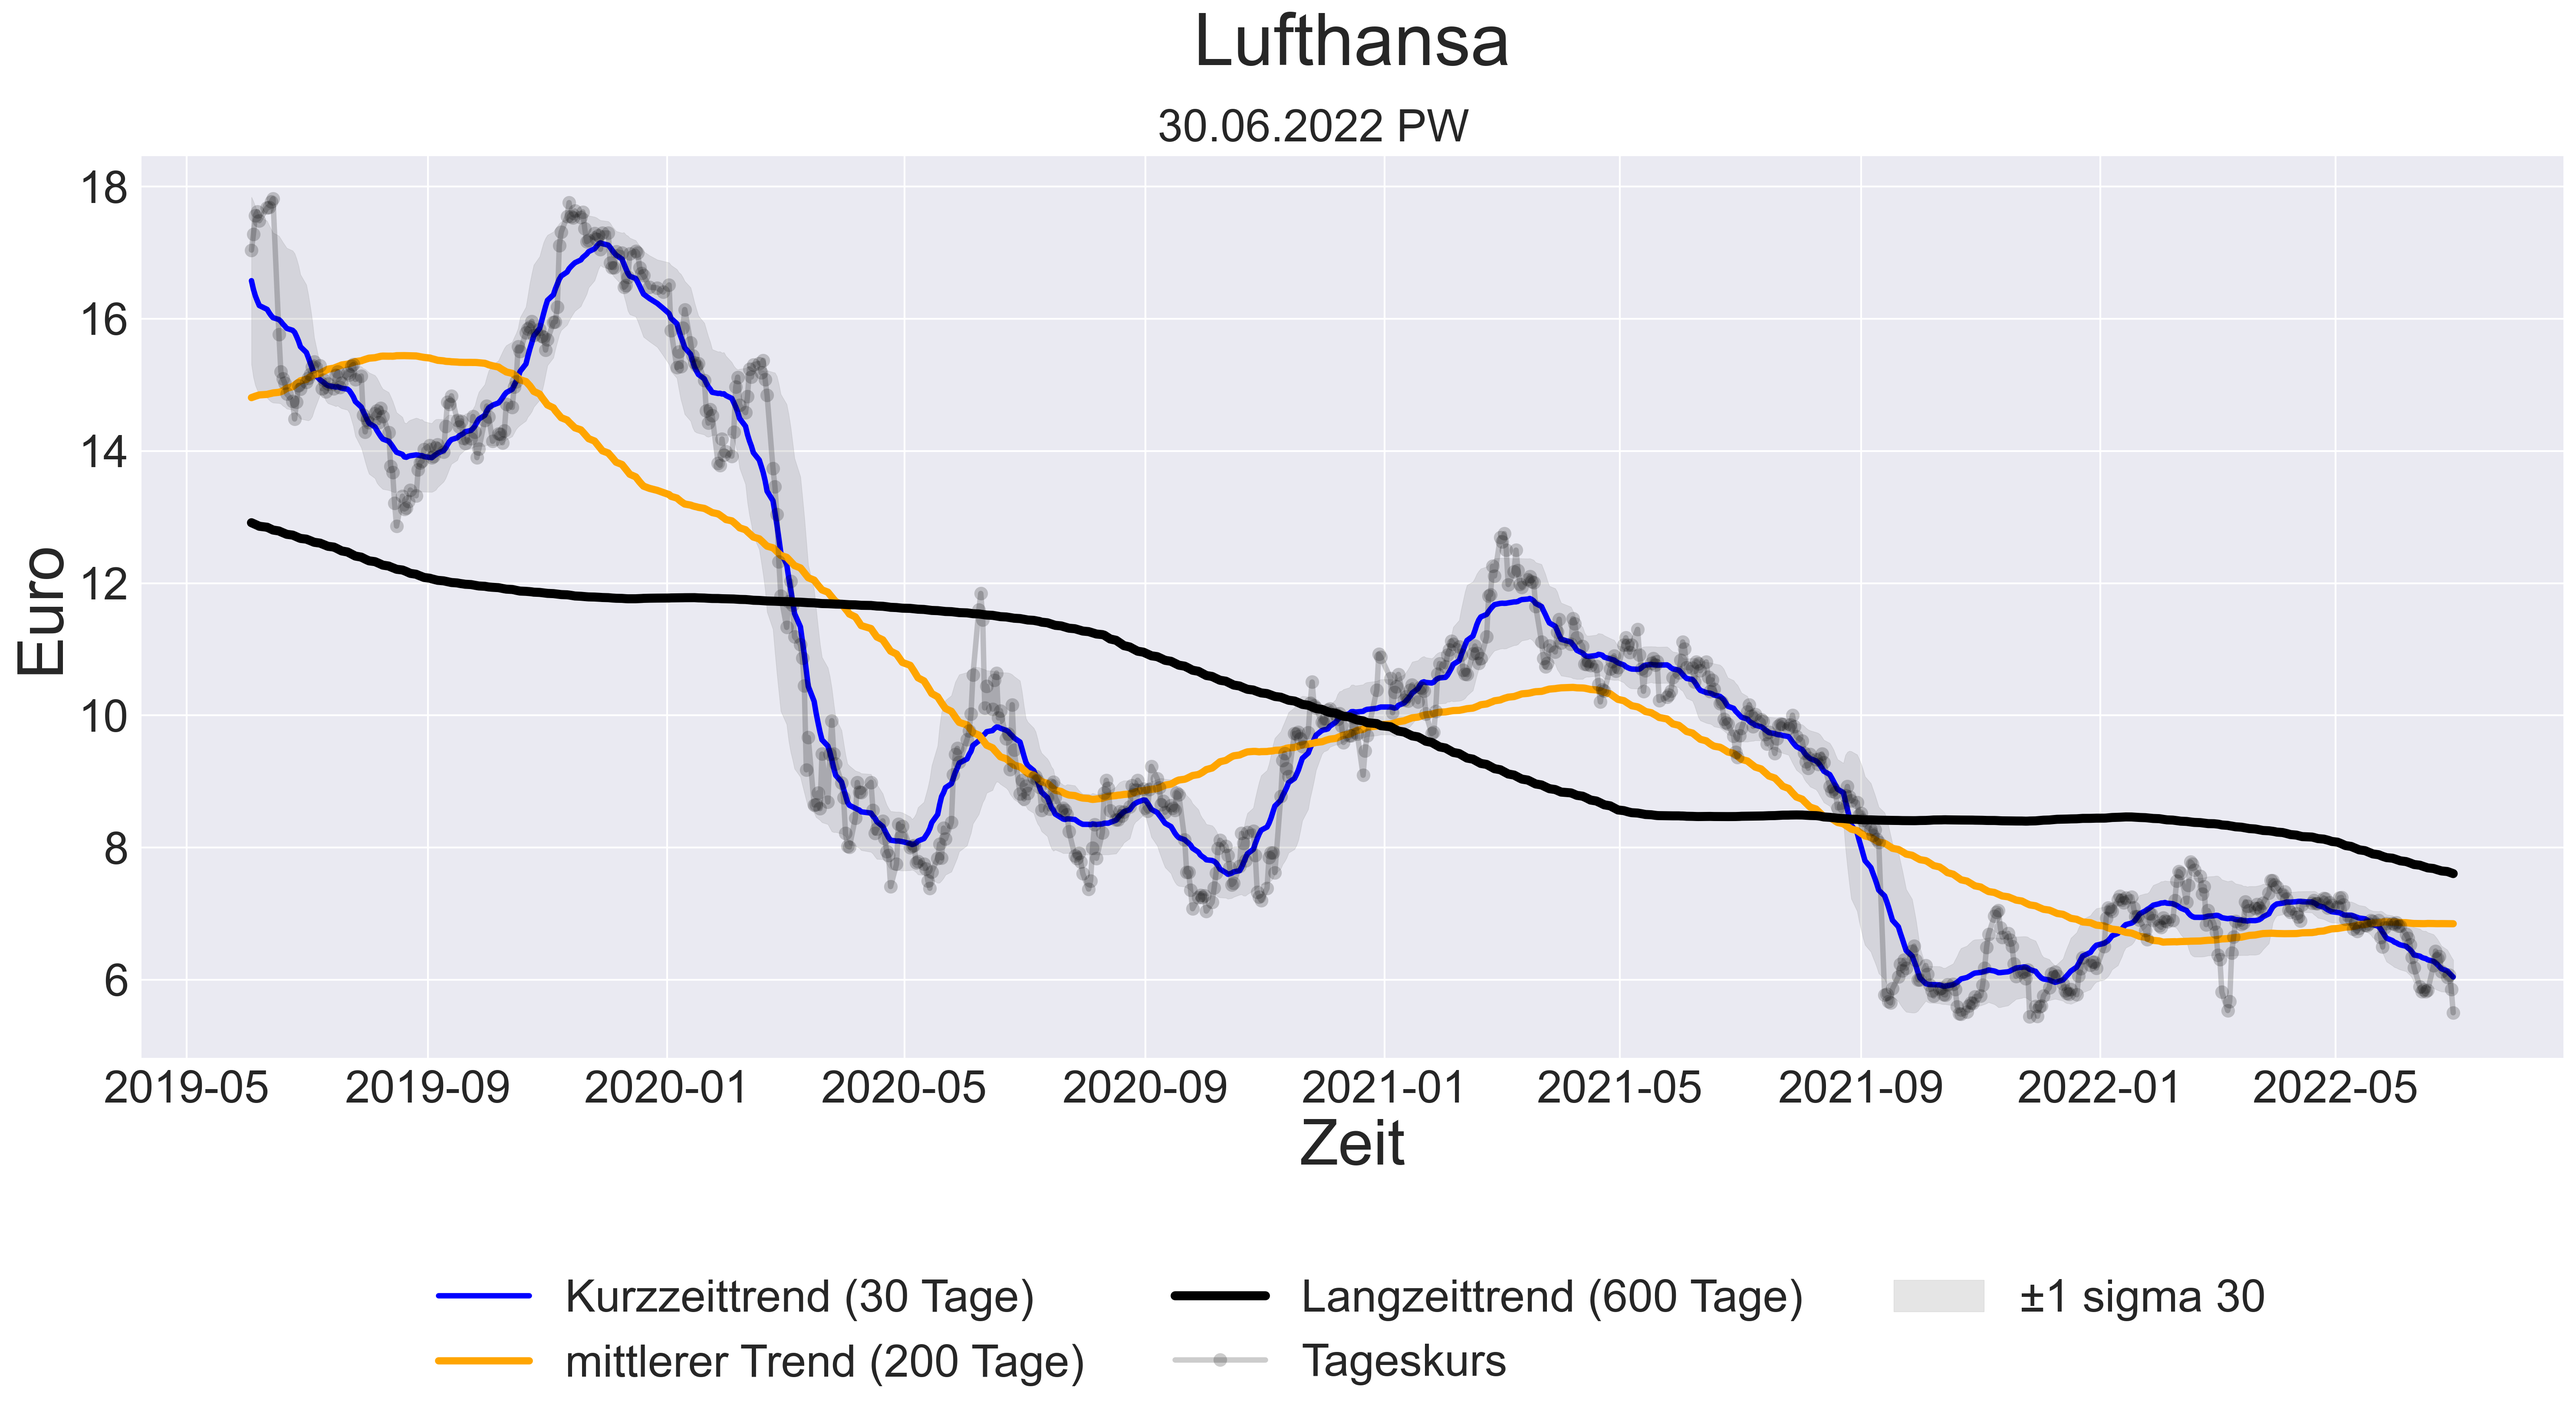
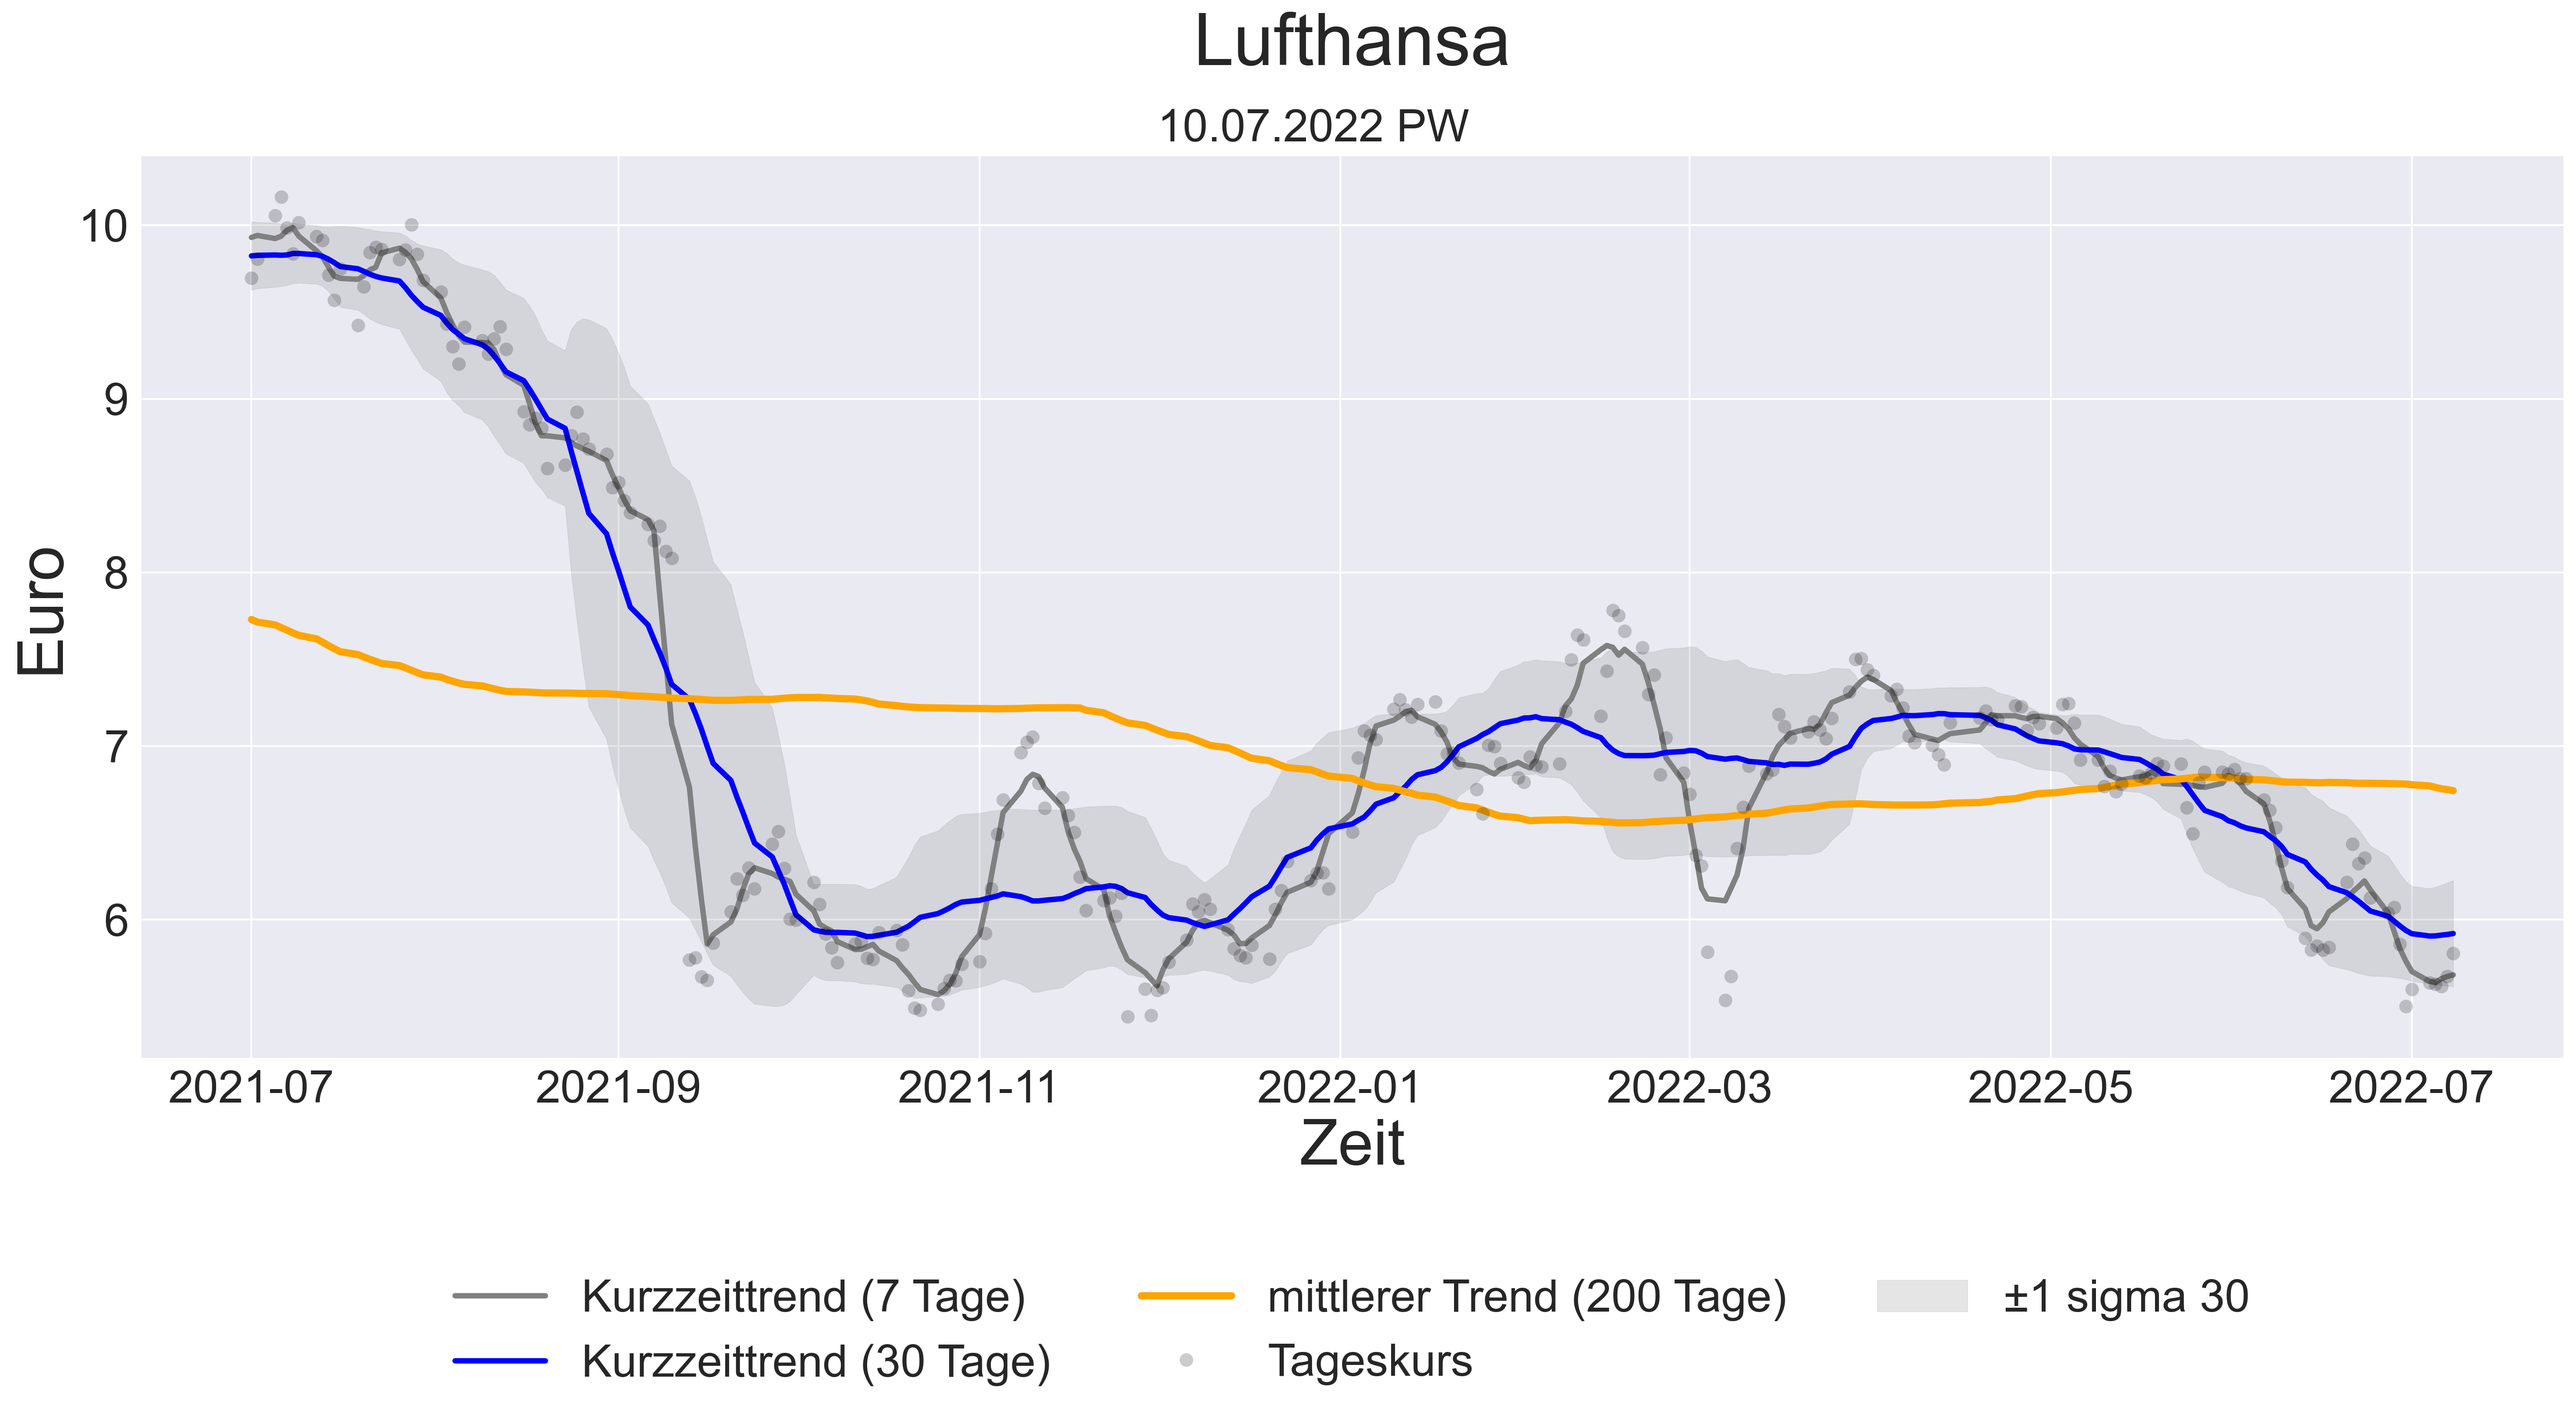
10.07.2022

diff --git a/diagramme.py b/diagramme.py
@@ -1,23 +1,31 @@
 from matplotlib import pyplot as plt
 
-def diagramme(df, rolling_window1, rolling_window2, rolling_window3, today, bezeichnung_aktie):
+def diagramme(df, rolling_window0, rolling_window1, rolling_window2, rolling_window3, today, bezeichnung_aktie, bool_WochenTrend, bool_KurzzeitTrend, bool_MittelTrend, bool_LangzeitTrend):
    
     # print(f'diagramme() bezeichnung_aktie= {bezeichnung_aktie}')
     plt.figure(figsize=(24,9))
     plt.style.use('seaborn')
     plt.grid(True)
 
+    # Wochentrend
+    if bool_WochenTrend == True:
+        plt.plot(df["Date"], df["Kurs_mean_0"], marker='', linestyle='-', alpha = 1,
+            color="grey", linewidth=3, label = f'Kurzzeittrend ({rolling_window0} Tage)', markersize=10)
+
     # Kurzzeittrend
-    plt.plot(df["Date"], df["Kurs_mean_1"], marker='', linestyle='-', alpha = 1,
-        color="blue", linewidth=3, label = f'Kurzzeittrend ({rolling_window1} Tage)', markersize=10)
+    if bool_KurzzeitTrend == True:
+        plt.plot(df["Date"], df["Kurs_mean_1"], marker='', linestyle='-', alpha = 1,
+            color="blue", linewidth=3, label = f'Kurzzeittrend ({rolling_window1} Tage)', markersize=10)
 
     # mittlerer Trend
-    plt.plot(df["Date"], df["Kurs_mean_2"], marker='', linestyle='-', alpha = 1,
-        color="orange", linewidth=4, label = f'mittlerer Trend ({rolling_window2} Tage)', markersize=10)
+    if bool_MittelTrend == True:
+        plt.plot(df["Date"], df["Kurs_mean_2"], marker='', linestyle='-', alpha = 1,
+            color="orange", linewidth=4, label = f'mittlerer Trend ({rolling_window2} Tage)', markersize=10)
     
     # Langzeit Trend
-    plt.plot(df["Date"], df["Kurs_mean_3"], marker='', linestyle='-', alpha = 1,
-        color="black", linewidth=5, label = f'Langzeittrend ({rolling_window3} Tage)', markersize=10)
+    if bool_LangzeitTrend == True:
+        plt.plot(df["Date"], df["Kurs_mean_3"], marker='', linestyle='-', alpha = 1,
+            color="black", linewidth=5, label = f'Langzeittrend ({rolling_window3} Tage)', markersize=10)
 
     # # std+
     # plt.plot(df["Date"], df["Kurs_std+"], marker='', linestyle='--', alpha = 0.3,
@@ -37,7 +45,7 @@ def diagramme(df, rolling_window1, rolling_window2, rolling_window3, today, beze
     # plt.fill_between(df["Date"], df["Kurs_mean_1"], df["Kurs_mean_2"], color='red', alpha=0.3,
     #     label=f'negativer Kurzzeittrend', interpolate=True, where=(df["Kurs_mean_1"] < df["Kurs_mean_2"]))
 
-    plt.plot(df["Date"], df["Kurs"], marker='.', linestyle='-', alpha=0.2,
+    plt.plot(df["Date"], df["Kurs"], marker='.', linestyle='', alpha=0.2,
         color="black", linewidth=3, label = "Tageskurs", markersize=15)
 
     plt.legend(loc='upper center',

diff --git a/01main.py b/01main.py
@@ -21,8 +21,16 @@ current_month = date.today().month
 current_day = date.today().day
 # print(f'{current_year} {current_month} {current_day}')
 
+# Einstellungen
+bool_WochenTrend = True
+bool_KurzzeitTrend = True 
+bool_MittelTrend = True
+bool_LangzeitTrend = False
+AnzahlJahre = 1
+
+
 # Datum Filter
-period1 = int(time.mktime(datetime.datetime(current_year-3, current_month, 1, 23, 59).timetuple()))
+period1 = int(time.mktime(datetime.datetime(current_year-AnzahlJahre, current_month, 1, 23, 59).timetuple()))
 period2 = int(time.mktime(datetime.datetime(current_year, current_month, current_day, 23, 59).timetuple()))
 
 # erstes bis zweites halving BTC
@@ -53,9 +61,9 @@ for key in dict_aktien:
     print(f'01main() bezeichnung_aktie= {bezeichnung_aktie}')
 
     # function Dataframes
-    df, rolling_window1, rolling_window2, rolling_window3 = dataframes(query_string, today, bezeichnung_aktie)
+    df, rolling_window0, rolling_window1, rolling_window2, rolling_window3 = dataframes(query_string, today, bezeichnung_aktie)
 
     # function Diagramme
-    diagramme(df, rolling_window1, rolling_window2, rolling_window3,today, bezeichnung_aktie)
+    diagramme(df, rolling_window0, rolling_window1, rolling_window2, rolling_window3,today, bezeichnung_aktie, bool_WochenTrend, bool_KurzzeitTrend, bool_MittelTrend, bool_LangzeitTrend)
 
 print('fertig')

diff --git a/dataframes.py b/dataframes.py
@@ -14,10 +14,12 @@ def dataframes(query_string, today, bezeichnung_aktie):
     # rolling_window3 = int(length*0.50)
 
     # für michi
+    rolling_window0 = 7
     rolling_window1 = 30
     rolling_window2 = 200
     rolling_window3 = 600
 
+    df['Kurs_mean_0'] = df['Kurs'].rolling(window=rolling_window0, min_periods=1, center=True).mean()
     df['Kurs_mean_1'] = df['Kurs'].rolling(window=rolling_window1, min_periods=1, center=True).mean()
     df['Kurs_mean_2'] = df['Kurs'].rolling(window=rolling_window2, min_periods=1, center=True).mean()
     df['Kurs_mean_3'] = df['Kurs'].rolling(window=rolling_window3, min_periods=1, center=True).mean()
@@ -35,5 +37,5 @@ def dataframes(query_string, today, bezeichnung_aktie):
     df['Date'] = df['Date'].dt.tz_localize(None)
     
     # df.to_csv(f'D:\\Github\\Aktien\\Output\\Daten\{today} {bezeichnung_aktie}.csv')
-    return df, rolling_window1, rolling_window2, rolling_window3
+    return df, rolling_window0, rolling_window1, rolling_window2, rolling_window3
 

diff --git a/daten.py b/daten.py
@@ -5,17 +5,19 @@ def daten():
         '1': 'LHA.DE',
         '2': 'H4ZJ.DE',
         '3': 'BTC-EUR',
-        '4': 'CL=F',
-        '5': 'EURUSD=X',
-        '6': 'GC=F'}
+       # '4': 'CL=F',
+        #'5': 'EURUSD=X',
+       # '6': 'GC=F'
+       }
 
     # Aktien Bezeichnung
     dict_bezeichnung_aktien = {
         'LHA.DE': 'Lufthansa',
         'H4ZJ.DE': 'HSBC MSCI World ETF',
         'BTC-EUR': 'Bitcoin-EUR',
-        'CL=F': 'crude oil',
-        'EURUSD=X': 'EURO to USD',
-        'GC=F': 'Gold'}
+      # 'CL=F': 'crude oil',
+      # 'EURUSD=X': 'EURO to USD',
+      # 'GC=F': 'Gold'
+        }
 
     return dict_aktien, dict_bezeichnung_aktien
